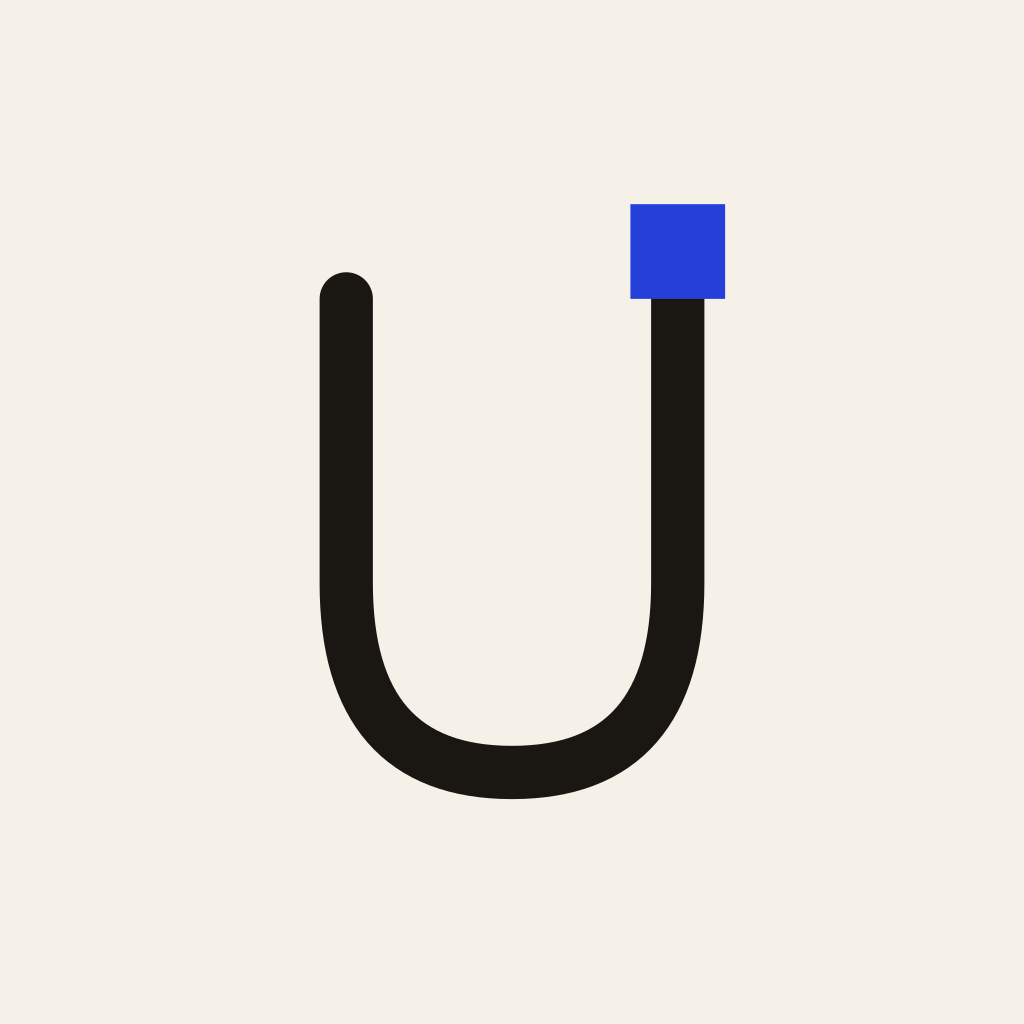
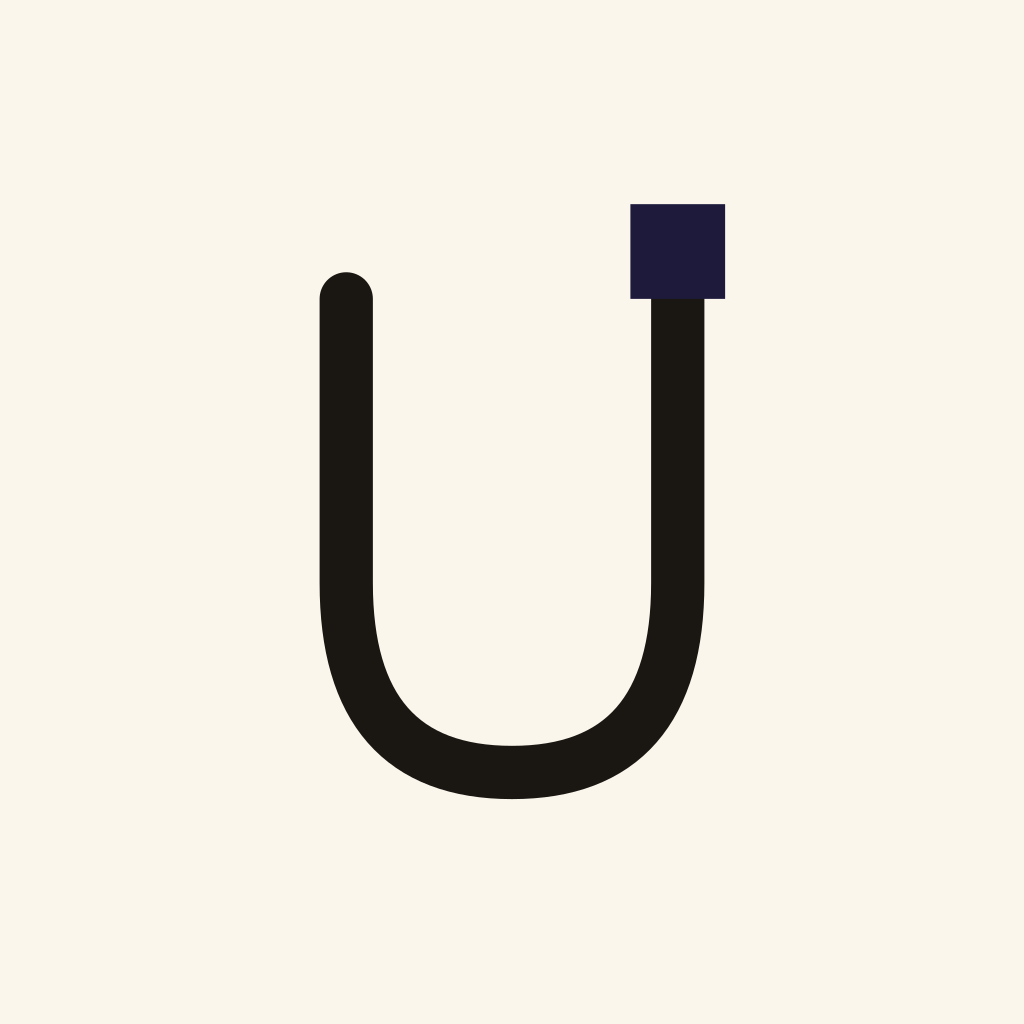
r369 slice 04 batch F — brand assets + heading display face
Brand assets re-keyed to the r369 canon (the icon, adaptive set, both
splash screens, favicon and the canonical shared/brand/mark.svg carried
the retired royal cornerstone #2540D9 and old paper #F5F1E8):
- scripts/brand/build-app-icons.mjs: cornerstone #1E1A3C (the collapsed
  light --accent = var(--neutral-900), the web mark's own seat), paper
  ground cream #FBF6EC; every PNG regenerated, --check byte-identical.
- build-splash-dark.mjs: vessel stroke = dark text #F7F1E6, cornerstone
  = dark --accent #A8A2E6; regenerated, --check byte-identical.
- app.config.ts: splash grounds -> #FBF6EC light / #14122B dark (the
  indigo-night --bg) — ONE ground from the first frame, matching the
  web's retired-indigo boot decision (polish.css r172a note); the spec's
  «indigo field» line is superseded, recorded in the LEDGER.
Heading rungs ride the display face (text.tsx): display/h1-h4 map to
Baloo Bhaijaan 2 weights (medium/semibold/bold), body rungs stay Readex
Pro, matching the web .pf-page-title -> var(--font-display) semibold.
fonts.ts gains displayMedium. tsc + tokens:check + ui/design/brand
suites green.

Changed region(s): [[0.5938, 0.1875, 0.7188, 0.3125]]

diff --git a/apps/mobile/app.config.ts b/apps/mobile/app.config.ts
@@ -6,8 +6,8 @@ import path from "node:path";
 /**
  * أُلارا — Ulara mobile (Expo / React Native).
  *
- * Brand: the ULARA system — paper #F5F1E8 · ink #1A1713 · royal #2540D9
- * (the 2026 «Parchment & Royal» takeover; the sienna era is retired).
+ * Brand: the ULARA system — r369: cream paper #FBF6EC · ink #1A1713 ·
+ * indigo cornerstone #1E1A3C (the collapsed light --accent seat).
  * The API base URL is public configuration (EXPO_PUBLIC_API_BASE_URL);
  * secrets never belong in this file or in the app bundle.
  */
@@ -100,7 +100,7 @@ const config: ExpoConfig = {
   icon: "./assets/images/icon.png",
   userInterfaceStyle: "automatic",
   description: "أُلارا — نظام تشغيل الجامعة (تطبيق الجوال الرسمي)",
-  backgroundColor: "#F5F1E8",
+  backgroundColor: "#FBF6EC", // r369: cream --bg
   primaryColor: "#2540D9",
   ios: {
     bundleIdentifier: "ly.ulara.app",
@@ -137,14 +137,17 @@ const config: ExpoConfig = {
     [
       "expo-splash-screen",
       {
-        backgroundColor: "#F5F1E8",
+        // r369: the cream --bg (tokens.generated.ts light) — ONE ground from
+        // the first frame, matching the web's retired-indigo boot decision.
+        backgroundColor: "#FBF6EC",
         // Dark ground: the PAPER-INK mark derivation (splash-icon-dark.png,
         // generated from the canonical mark.ts by scripts/build-splash-dark.mjs
         // — same geometry/weight/box as the light asset, ink swapped to the
         // paper rung). The ink-mark-on-ink-ground variant rendered the
         // vessel invisible (1:1 against its own ground) on dark cold boots.
         dark: {
-          backgroundColor: "#262019",
+          // r369: the indigo-night dark --bg (tokens.generated.ts dark).
+          backgroundColor: "#14122B",
           image: "./assets/images/splash-icon-dark.png",
           imageWidth: 120,
         },

diff --git a/apps/mobile/src/components/ui/text.tsx b/apps/mobile/src/components/ui/text.tsx
@@ -105,20 +105,30 @@ export function T({ variant = "body", color = "text", weight, align, style, ...r
           gold: p.goldInk,
           danger: tones.rose.deep,
         }[color];
+  /* r369 slice 04 — the display face carries the heading rungs, matching
+     * the web canon (.pf-page-title rides var(--font-display) semibold):
+     * display/h1-h4 → Baloo Bhaijaan 2 (Display-*), body rungs → Readex
+     * Pro (Body-*), mono → Geist. An explicit weight picks the same rung
+     * inside the variant's family; an unweighted heading lands Semibold. */
+  const isHeading = variant === "display" || variant === "h1" || variant === "h2" || variant === "h3" || variant === "h4";
   const weightFamily =
     variant === "mono" || variant === "monoSm"
       ? weight === "medium"
         ? fonts.monoMedium
         : fonts.mono
-      : weight === "bold"
-        ? fonts.bodyBold
-        : weight === "semibold"
-          ? fonts.bodySemiBold
+      : isHeading
+        ? weight === "medium"
+          ? fonts.displayMedium
+          : weight === "bold"
+            ? fonts.displayBold
+            : fonts.display
+        : weight === "bold"
+          ? fonts.bodyBold
+          : weight === "semibold"
+            ? fonts.bodySemiBold
           : weight === "medium"
             ? fonts.bodyMedium
-            : variant === "display"
-              ? fonts.display
-              : undefined;
+            : undefined;
   const variantStyle = scaleLineHeight(sizes[variant], fontScale);
   const family: TextStyle = weightFamily
     ? { fontFamily: weightFamily }

diff --git a/apps/mobile/src/design/fonts.ts b/apps/mobile/src/design/fonts.ts
@@ -48,6 +48,7 @@ export const fonts = {
   bodySemiBold: "Body-SemiBold",
   bodyBold: "Body-Bold",
   display: "Display-SemiBold",
+  displayMedium: "Display-Medium",
   displayBold: "Display-Bold",
   mono: "Mono-Regular",
   monoMedium: "Mono-Medium",
